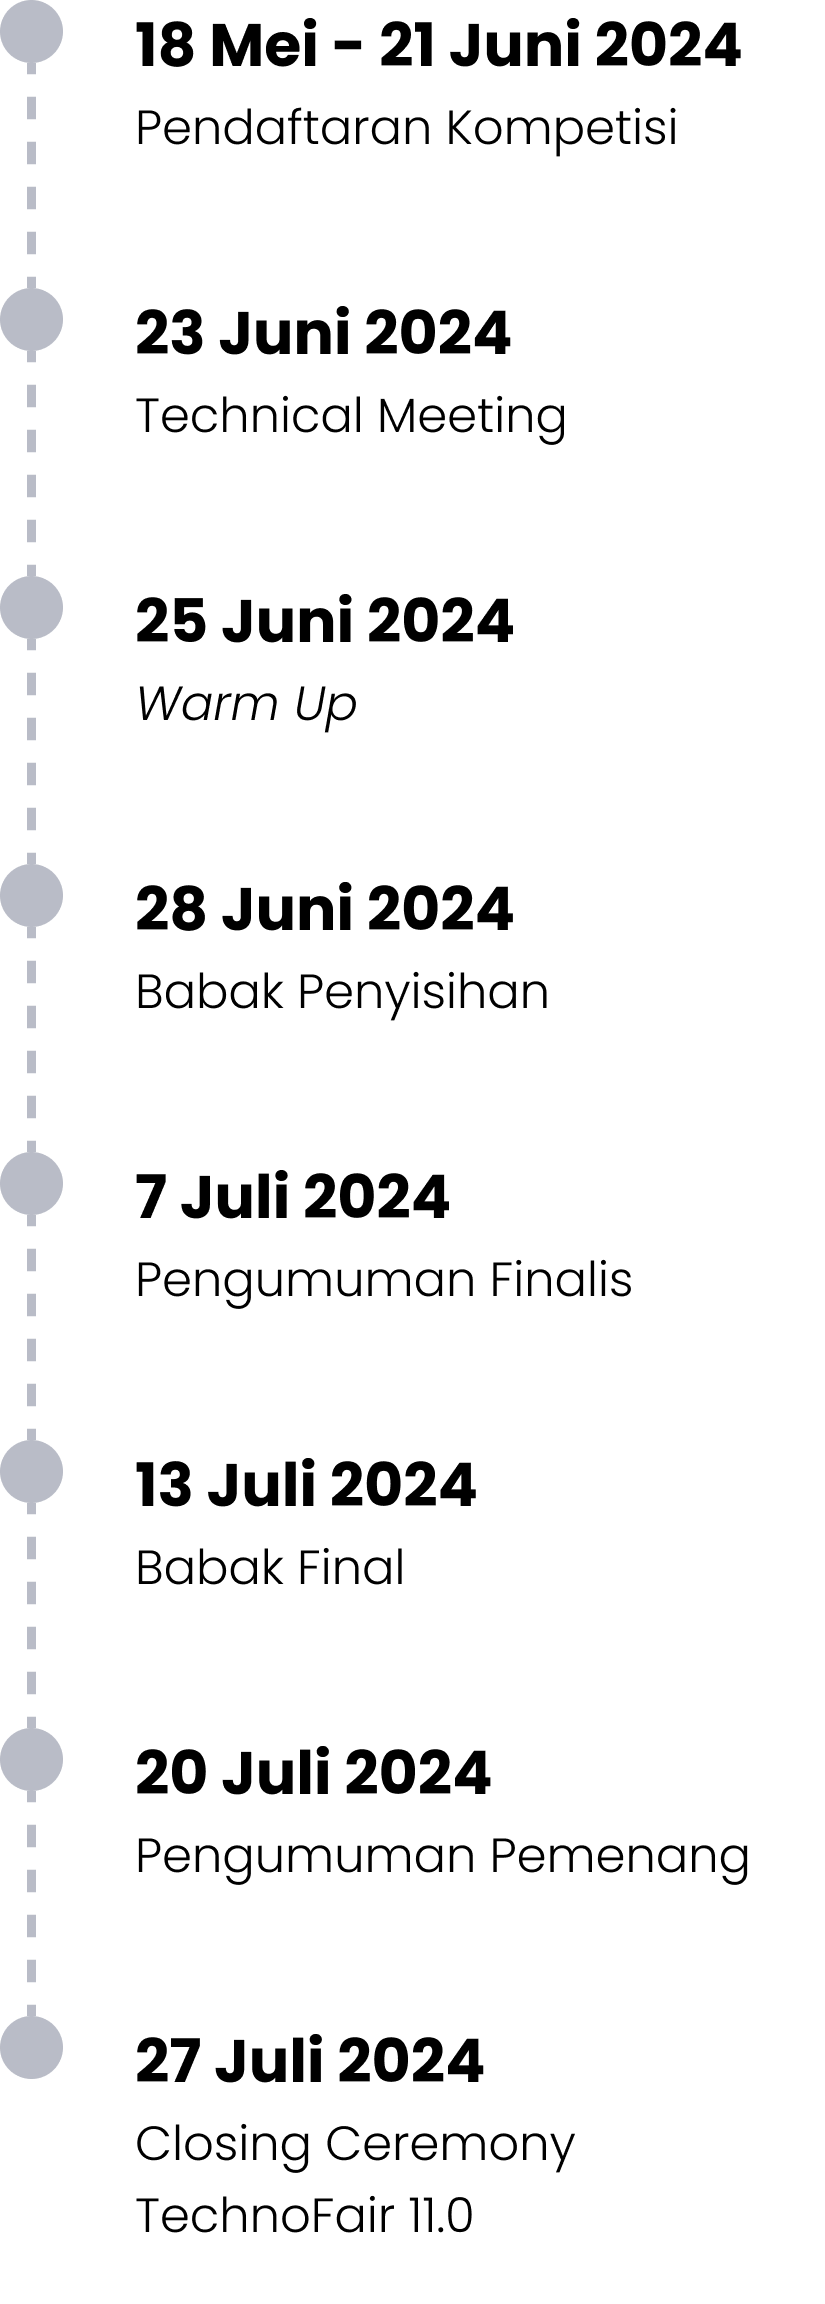
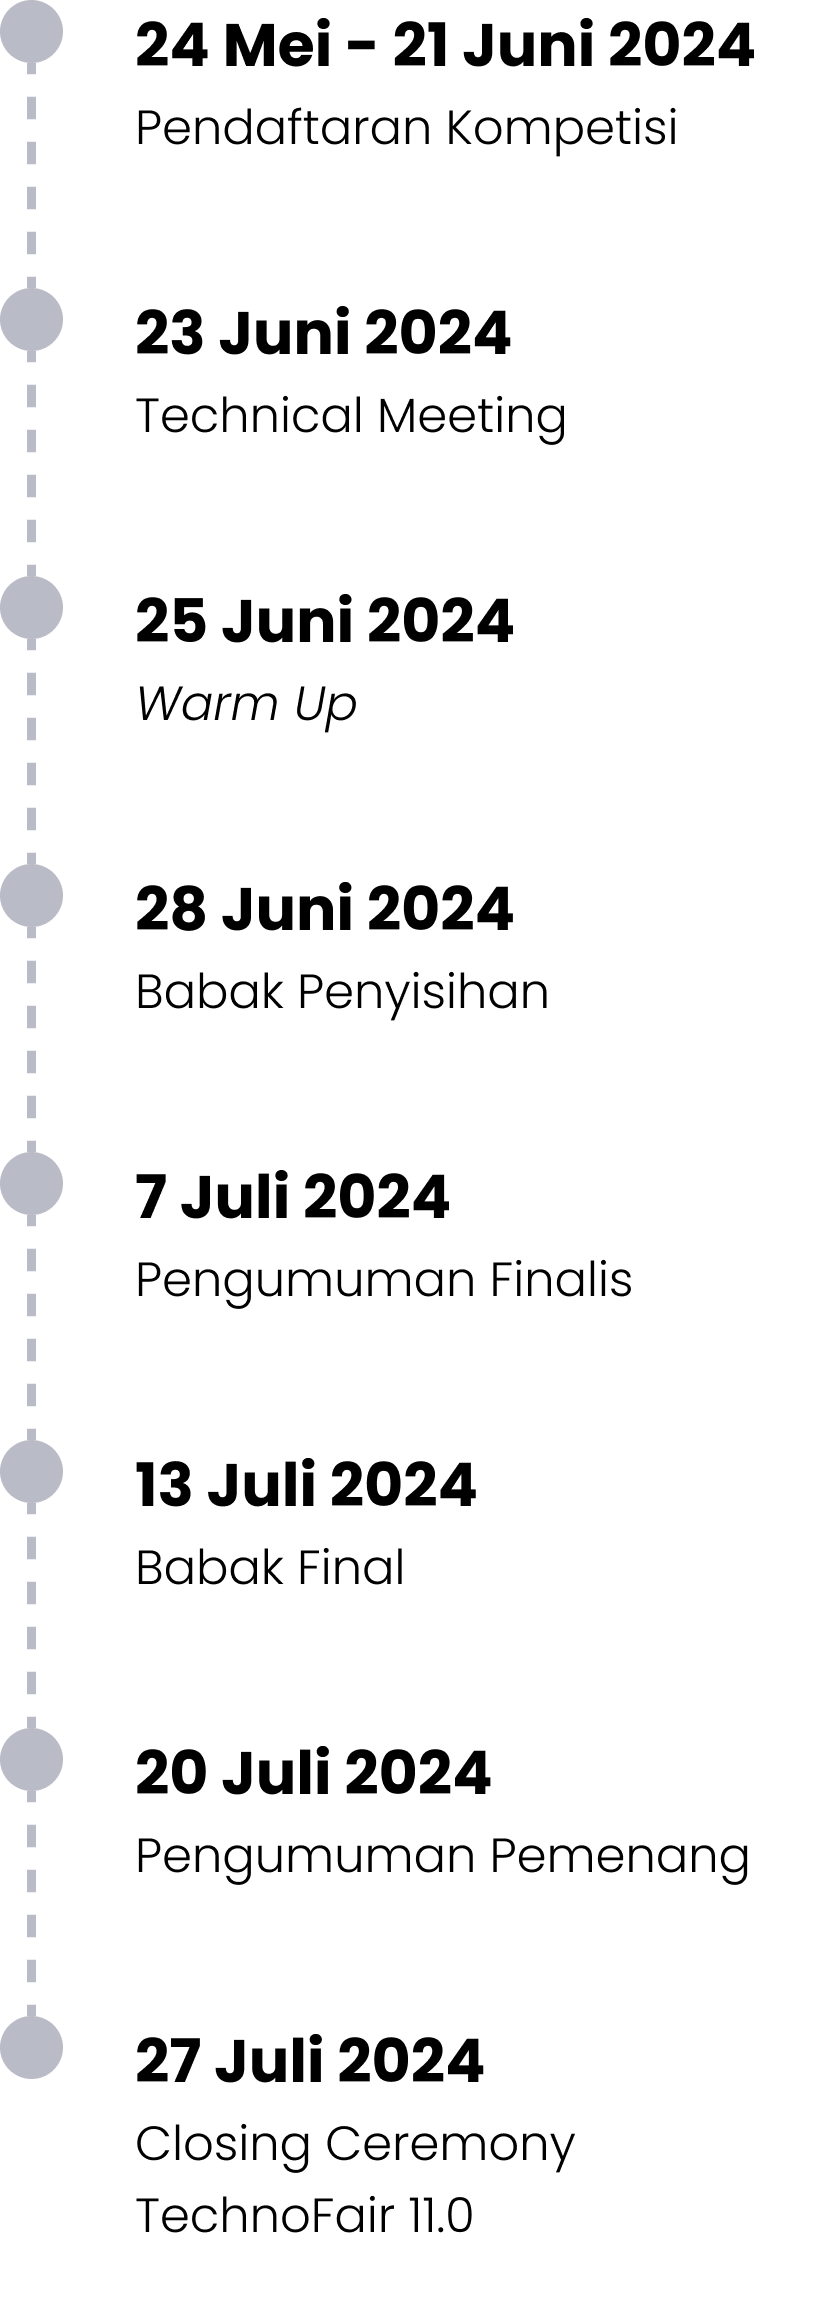
update timeline, dan rulebook

Changed region(s): [[0.4545, 0.0, 0.9091, 0.0312], [0.1515, 0.0, 0.4242, 0.0312]]

diff --git a/src/components/technofair/details/CTF.tsx b/src/components/technofair/details/CTF.tsx
@@ -54,7 +54,7 @@ export default function CaptureTheFlagPage() {
                 {/* <button onClick={() => toast.error('Coming Soon')} className="w-48 h-14 bg-[#21B573] rounded-[16px] border flex justify-center items-center hover:bg-[#1C9760]">
                   <p className={`text-[#FEFDFC] ${poppins.className} text-base font-semibold`}>Daftar Sekarang</p>
                 </button> */}
-                <Link href={'https://docs.google.com/forms/d/10Xj6u0p0ykHcUwsDVXA__O1ZiuBWjwgVU2wXfJRm0ao/edit'} className="w-48 h-14 bg-[#21B573] rounded-[16px] border flex justify-center items-center hover:bg-[#1C9760]">
+                <Link href={'https://bit.ly/RegistrationCTFTechnoFair11-0'} className="w-48 h-14 bg-[#21B573] rounded-[16px] border flex justify-center items-center hover:bg-[#1C9760]">
                   <p className={`text-[#FEFDFC] ${poppins.className} text-base font-semibold`}>Daftar Sekarang</p>
                 </Link>
                 <div className="mt-9 text-base text-[#212427]">
@@ -92,7 +92,7 @@ export default function CaptureTheFlagPage() {
                     <p className={`text-center text-[#212427] ${poppins.className}`}>Lihat Rulebook</p>
                   </div>
                 </button> */}
-                <Link href={'https://drive.google.com/drive/folders/1EspN_wlBeK8J1CHVxApL9kcpn5mMptEZ?usp=drive_link'} className="">
+                <Link href={'https://drive.google.com/file/d/1-TFaOz2Sln3pUbY5t49I4rDA5MO0UmMs/view?usp=sharing'} className="">
                   <div className="w-72 h-14 bg-[#F7F9FA] rounded-[8px] border-[#B9BCC7] border shadow-lg flex justify-center items-center hover:bg-[#eaeaea]">
                     <p className={`text-center text-[#212427] ${poppins.className}`}>Lihat Rulebook</p>
                   </div>
@@ -295,18 +295,18 @@ export default function CaptureTheFlagPage() {
               {/* <button onClick={() => toast.error('Coming Soon')} className="w-48 h-14 bg-[#21B573] rounded-[8px] border flex justify-center items-center hover:bg-[#1C9760]">
                 <p className={`text-[#FEFDFC] ${poppins.className} text-base font-semibold`}>Daftar Sekarang</p>
               </button> */}
-              <Link href={'https://docs.google.com/forms/d/10Xj6u0p0ykHcUwsDVXA__O1ZiuBWjwgVU2wXfJRm0ao/edit'} className="w-48 h-14 bg-[#21B573] rounded-[8px] border flex justify-center items-center hover:bg-[#1C9760]">
+              <Link href={'https://bit.ly/RegistrationCTFTechnoFair11-0'} className="w-48 h-14 bg-[#21B573] rounded-[8px] border flex justify-center items-center hover:bg-[#1C9760]">
                 <p className={`text-[#FEFDFC] ${poppins.className} text-base font-semibold`}>Daftar Sekarang</p>
               </Link>
             </div>
             {/* <button onClick={() => toast.error('Coming Soon')} className={`w-full h-14 bg-[#FEFDFC] ${poppins.className} rounded-[8px] border flex justify-center items-center hover:bg-[#FAF9F7] shadow-md`}>
               <p className='text-[#6c6a67]'>Lihat Rulebook</p>
             </button> */}
-            <Link href={'https://drive.google.com/drive/folders/1EspN_wlBeK8J1CHVxApL9kcpn5mMptEZ?usp=drive_link'} className={`w-full h-14 bg-[#FEFDFC] ${poppins.className} rounded-[8px] border flex justify-center items-center hover:bg-[#FAF9F7] shadow-md`}>
+            <Link href={'https://drive.google.com/file/d/1-TFaOz2Sln3pUbY5t49I4rDA5MO0UmMs/view?usp=sharing'} className={`w-full h-14 bg-[#FEFDFC] ${poppins.className} rounded-[8px] border flex justify-center items-center hover:bg-[#FAF9F7] shadow-md`}>
               <p className='text-[#6c6a67]'>Lihat Rulebook</p>
             </Link>
             <div className="">
-              <Image src={'/technofair/timeline-ctf.png'} alt='timeline ctf' width={175} height={568}/>
+              <Image src={'/technofair/timeline-ctf.png'} alt='timeline ctf' width={255} height={568}/>
             </div>
           </div>
           <div className="">

diff --git a/src/components/technofair/details/CompProg.tsx b/src/components/technofair/details/CompProg.tsx
@@ -55,7 +55,7 @@ export default function CaptureTheFlagPage() {
                 {/* <button onClick={() => toast.error('Coming Soon')} className="w-48 h-14 bg-[#21B573] rounded-[16px] border flex justify-center items-center hover:bg-[#1C9760]">
                   <p className={`text-[#FEFDFC] ${poppins.className} text-base font-semibold`}>Daftar Sekarang</p>
                 </button> */}
-                <Link href={'https://docs.google.com/forms/d/1xp_ZFuEkN7Eiu5MbpfXezdrChtPoUra5kzoVxqiypp8/edit?ts=66460c90'} className="w-48 h-14 bg-[#21B573] rounded-[16px] border flex justify-center items-center hover:bg-[#1C9760]">
+                <Link href={'https://bit.ly/RegistrationCPTechnoFair11-0'} className="w-48 h-14 bg-[#21B573] rounded-[16px] border flex justify-center items-center hover:bg-[#1C9760]">
                   <p className={`text-[#FEFDFC] ${poppins.className} text-base font-semibold`}>Daftar Sekarang</p>
                 </Link>
                 <div className="mt-9 text-base text-[#212427]">
@@ -93,7 +93,7 @@ export default function CaptureTheFlagPage() {
                     <p className={`text-center text-[#212427] ${poppins.className}`}>Lihat Rulebook</p>
                   </div>
                 </button> */}
-                <Link href={'https://drive.google.com/drive/folders/1UFrhbUsT0tqQWJPFqwHWulhCp7lH9vRc?usp=drive_link'} className="">
+                <Link href={'https://drive.google.com/file/d/1A_TdQFm9bf_N46Z5QiPxvscsMwngpJfN/view?usp=sharing'} className="">
                   <div className="w-72 h-14 bg-[#F7F9FA] rounded-[8px] border-[#B9BCC7] border shadow-lg flex justify-center items-center hover:bg-[#eaeaea]">
                     <p className={`text-center text-[#212427] ${poppins.className}`}>Lihat Rulebook</p>
                   </div>
@@ -270,7 +270,7 @@ export default function CaptureTheFlagPage() {
               >
                 <p className={`text-[#6C6A67] ${poppins.className} text-base font-semibold`}>Hubungi Kami</p>
               </Link>
-              <Link href={'https://docs.google.com/forms/d/1xp_ZFuEkN7Eiu5MbpfXezdrChtPoUra5kzoVxqiypp8/edit?ts=66460c90'} className="w-48 h-14 bg-[#21B573] rounded-[8px] border flex justify-center items-center hover:bg-[#1C9760]">
+              <Link href={'https://bit.ly/RegistrationCPTechnoFair11-0'} className="w-48 h-14 bg-[#21B573] rounded-[8px] border flex justify-center items-center hover:bg-[#1C9760]">
                 <p className={`text-[#FEFDFC] ${poppins.className} text-base font-semibold`}>Daftar Sekarang</p>
               </Link>
               {/* <button onClick={() => toast.error('Coming Soon')} className="w-48 h-14 bg-[#21B573] rounded-[8px] border flex justify-center items-center hover:bg-[#1C9760]">
@@ -280,7 +280,7 @@ export default function CaptureTheFlagPage() {
             {/* <button onClick={() => toast.error('Coming Soon')} className={`w-full h-14 bg-[#FEFDFC] ${poppins.className} rounded-[8px] border flex justify-center items-center hover:bg-[#FAF9F7] shadow-md`}>
               <p className='text-[#6c6a67]'>Lihat Rulebook</p>
             </button> */}
-            <Link href={'https://drive.google.com/drive/folders/1UFrhbUsT0tqQWJPFqwHWulhCp7lH9vRc?usp=drive_link'} className={`w-full h-14 bg-[#FEFDFC] ${poppins.className} rounded-[8px] border flex justify-center items-center hover:bg-[#FAF9F7] shadow-md`}>
+            <Link href={'https://drive.google.com/file/d/1A_TdQFm9bf_N46Z5QiPxvscsMwngpJfN/view?usp=sharing'} className={`w-full h-14 bg-[#FEFDFC] ${poppins.className} rounded-[8px] border flex justify-center items-center hover:bg-[#FAF9F7] shadow-md`}>
               <p className='text-[#6c6a67]'>Lihat Rulebook</p>
             </Link>
             <div className="py-3">

diff --git a/src/components/technofair/details/DigitalInfo.tsx b/src/components/technofair/details/DigitalInfo.tsx
@@ -89,7 +89,7 @@ export default function DigitalInfoPage() {
                     </div>
                   </div>
                 </div>
-                <Link href={'https://drive.google.com/file/d/1pB5xH82Os_5oJc5ft5-I3QwSq2CCQokz/view?usp=sharing'} className="">
+                <Link href={'https://drive.google.com/file/d/1Br-GaBbOvjXgS66Pb9qqG1_j-QN8quaU/view?usp=sharing'} className="">
                   <div className="w-72 h-14 bg-[#F7F9FA] rounded-[8px] border-[#B9BCC7] border shadow-lg flex justify-center items-center hover:bg-[#eaeaea]">
                     <p className={`text-center text-[#212427] ${poppins.className}`}>Lihat Rulebook</p>
                   </div>
@@ -366,7 +366,7 @@ export default function DigitalInfoPage() {
               </Link>
             </div>
             <Link
-              href={'https://drive.google.com/file/d/1pB5xH82Os_5oJc5ft5-I3QwSq2CCQokz/view?usp=sharing'}
+              href={'https://drive.google.com/file/d/1Br-GaBbOvjXgS66Pb9qqG1_j-QN8quaU/view?usp=sharing'}
               className={`w-full h-14 bg-[#FEFDFC] ${poppins.className} rounded-[8px] border flex justify-center items-center hover:bg-[#FAF9F7] shadow-md`}
             >
               <p className="text-[#6c6a67]">Lihat Rulebook</p>

diff --git a/src/components/technofair/details/UIUXCompe.tsx b/src/components/technofair/details/UIUXCompe.tsx
@@ -86,7 +86,7 @@ export default function UIUXCompePage() {
                     </div>
                   </div>
                 </div>
-                <Link href={'https://drive.google.com/file/d/1pPxXNOtJFJL9CQmfIzGl_J43FAytf8jJ/view?usp=sharing'} className="">
+                <Link href={'https://drive.google.com/file/d/1ixNVmKcynnsLhlQlxp0ZcLoNm1htl1QG/view?usp=sharing'} className="">
                   <div className="w-72 h-14 bg-[#F7F9FA] rounded-[8px] border-[#B9BCC7] border shadow-lg flex justify-center items-center hover:bg-[#eaeaea]">
                     <p className={`text-center text-[#212427] ${poppins.className}`}>Lihat Rulebook</p>
                   </div>
@@ -381,7 +381,7 @@ export default function UIUXCompePage() {
               </Link>
             </div>
             <Link
-              href={'https://drive.google.com/file/d/1pPxXNOtJFJL9CQmfIzGl_J43FAytf8jJ/view?usp=sharing'}
+              href={'https://drive.google.com/file/d/1ixNVmKcynnsLhlQlxp0ZcLoNm1htl1QG/view?usp=sharing'}
               className={`w-full h-14 bg-[#FEFDFC] ${poppins.className} rounded-[8px] border flex justify-center items-center hover:bg-[#FAF9F7] shadow-md`}
             >
               <p className="text-[#6c6a67]">Lihat Rulebook</p>
